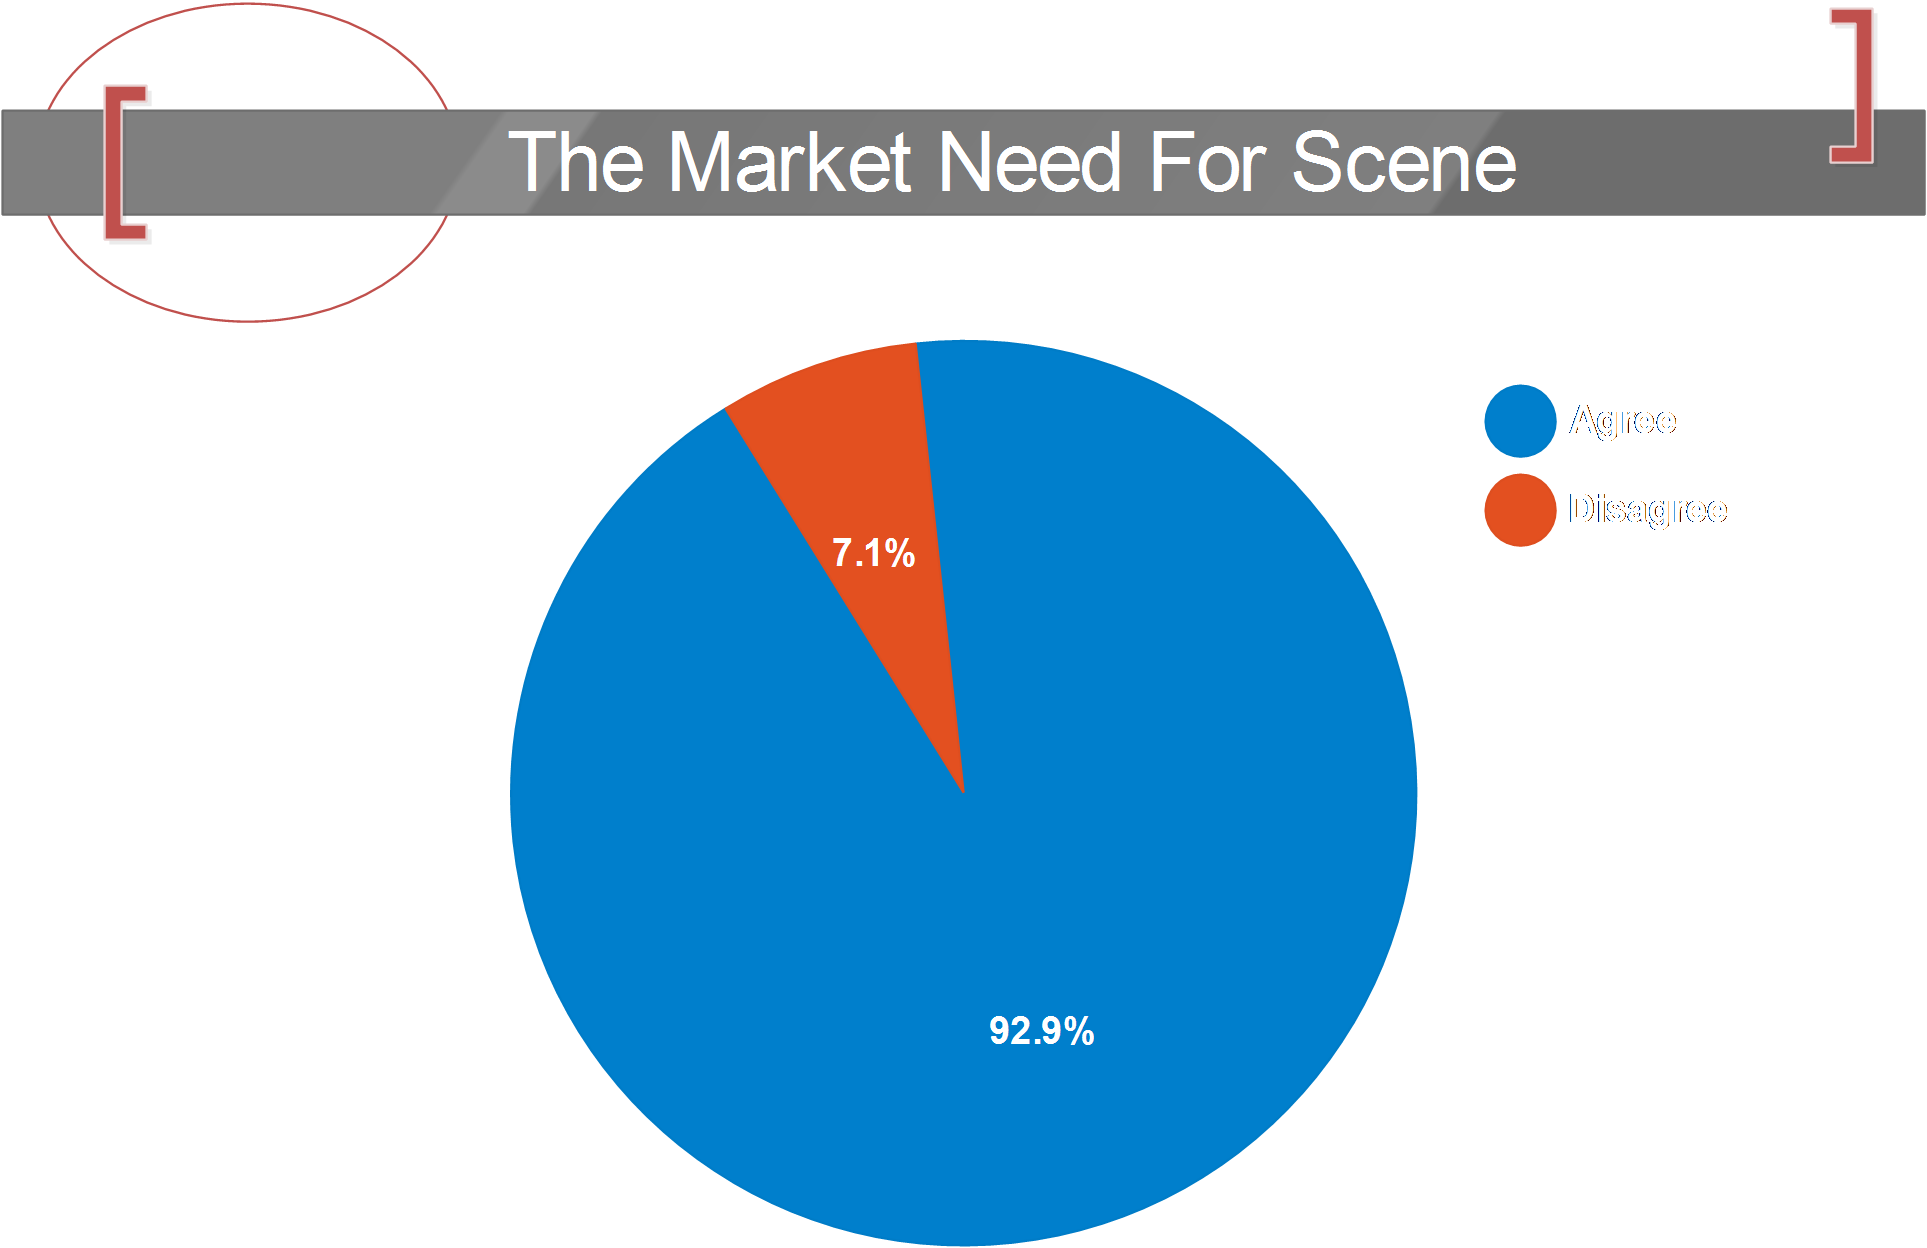
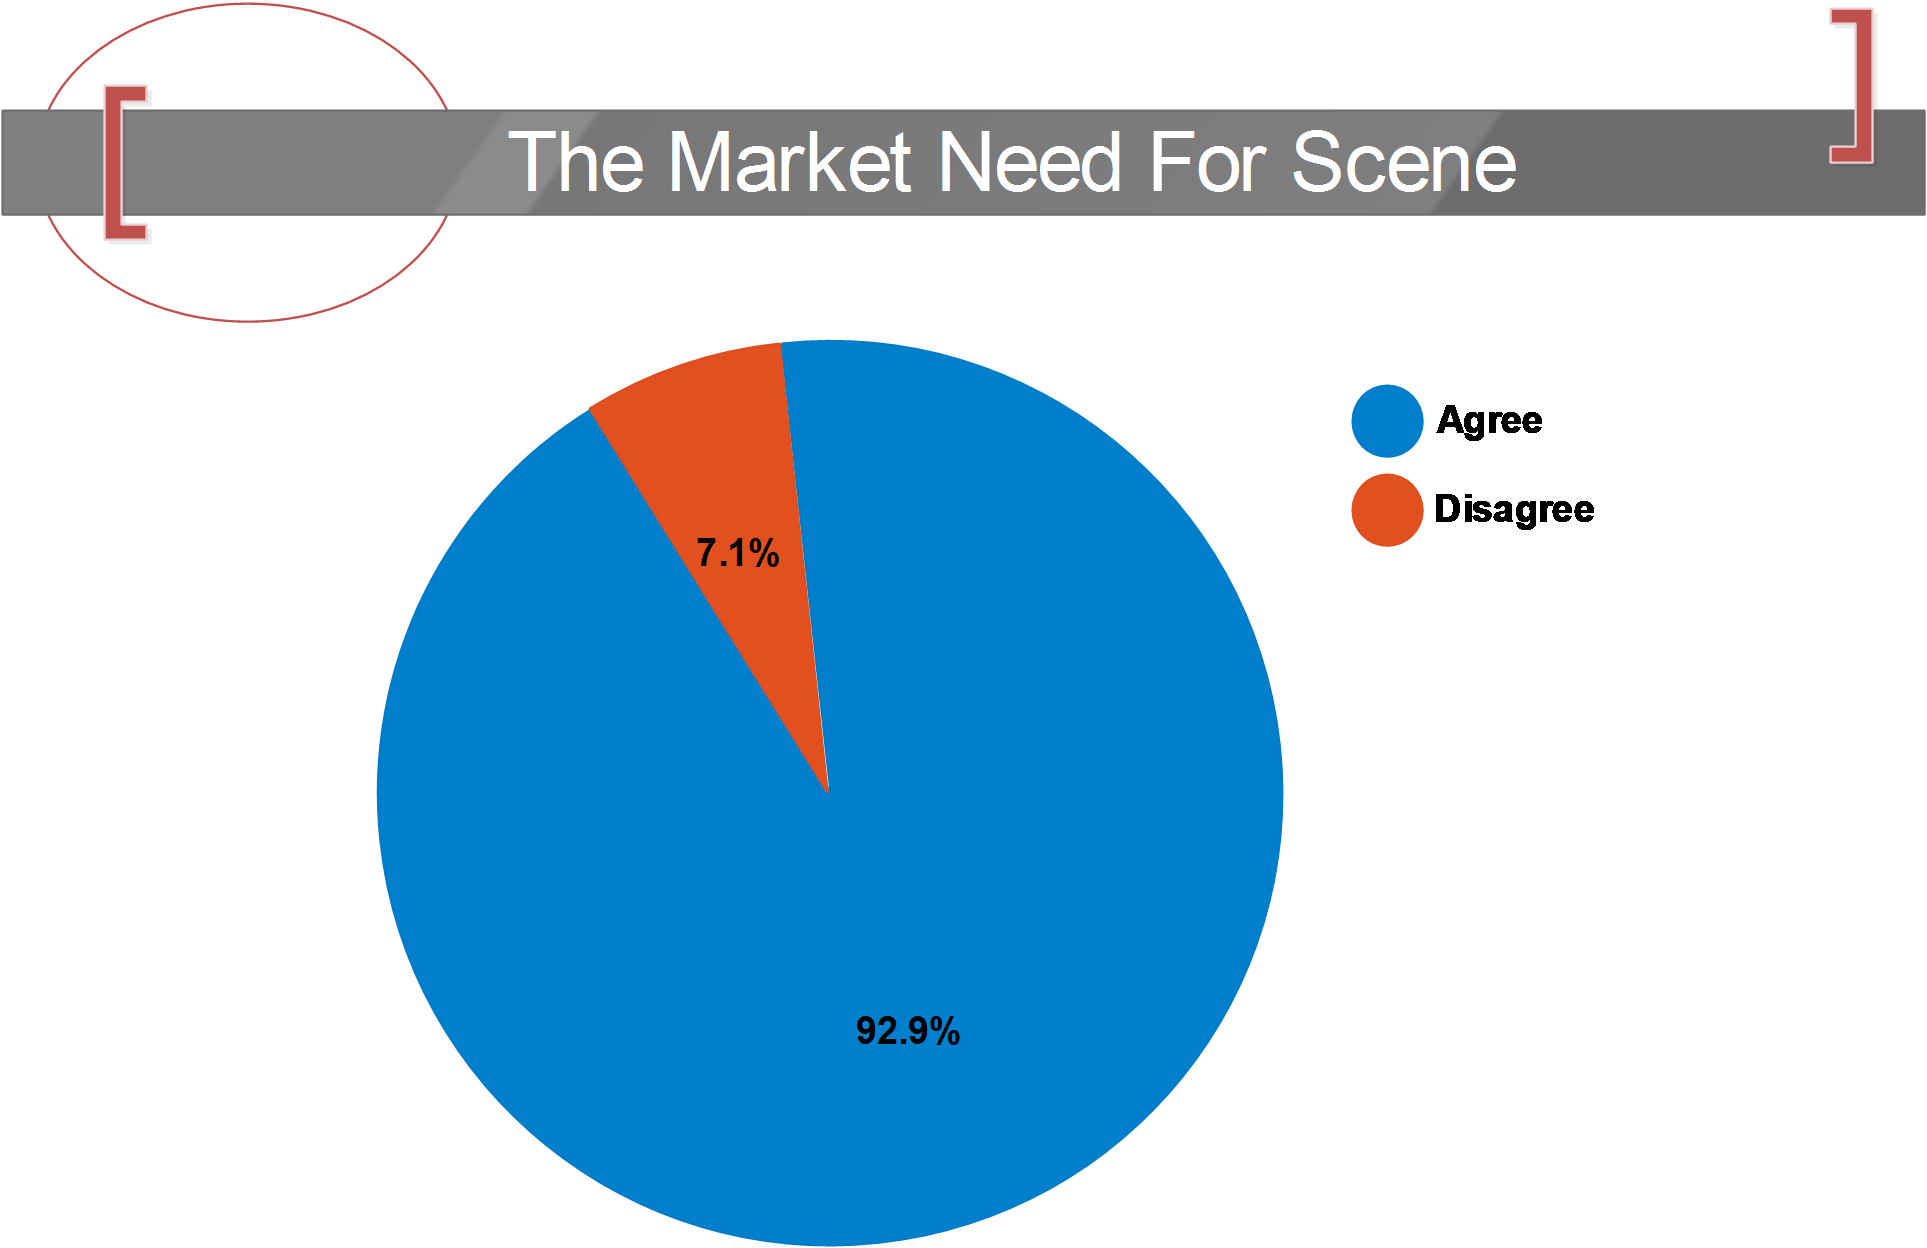
images adjusted

Changed region(s): [[0.1868, 0.25, 0.8407, 1.0], [0.4359, 0.8125, 0.5605, 0.8438]]

diff --git a/index.html b/index.html
@@ -63,17 +63,18 @@
 
 				</section>
 
-				<section data-transition="slide" data-background-transition="zoom" data-background="images/fig01.png" data-background-size="1000px" data-background="white">
+				<section data-transition="slide" data-background-transition="zoom" data-background="white">
 
 					<p>
-
+						<img src="images/fig01.png">
 					</p>
 
 				</section>
 
-				<section data-transition="slide" data-background-transition="zoom" data-background="images/fig02.png" data-background-size="1000px" data-background="white">
+				<section data-transition="slide" data-background-transition="zoom"  data-background="white">
 
 					<p>
+						<img src="images/fig02.png">
 
 					</p>
 
